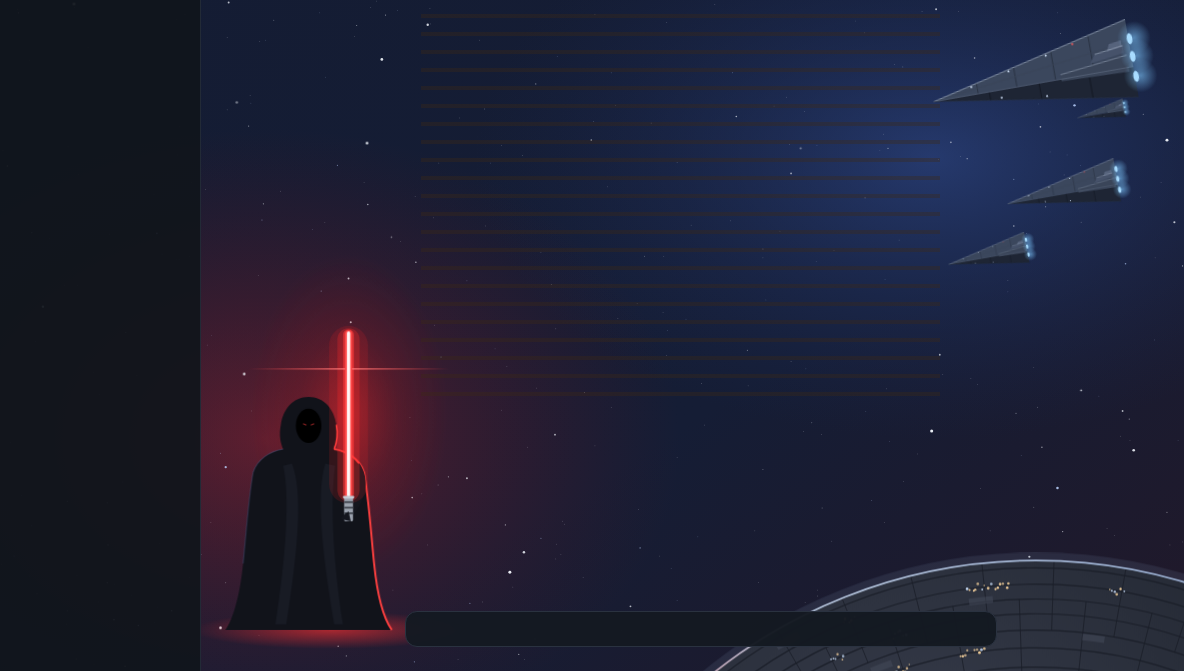
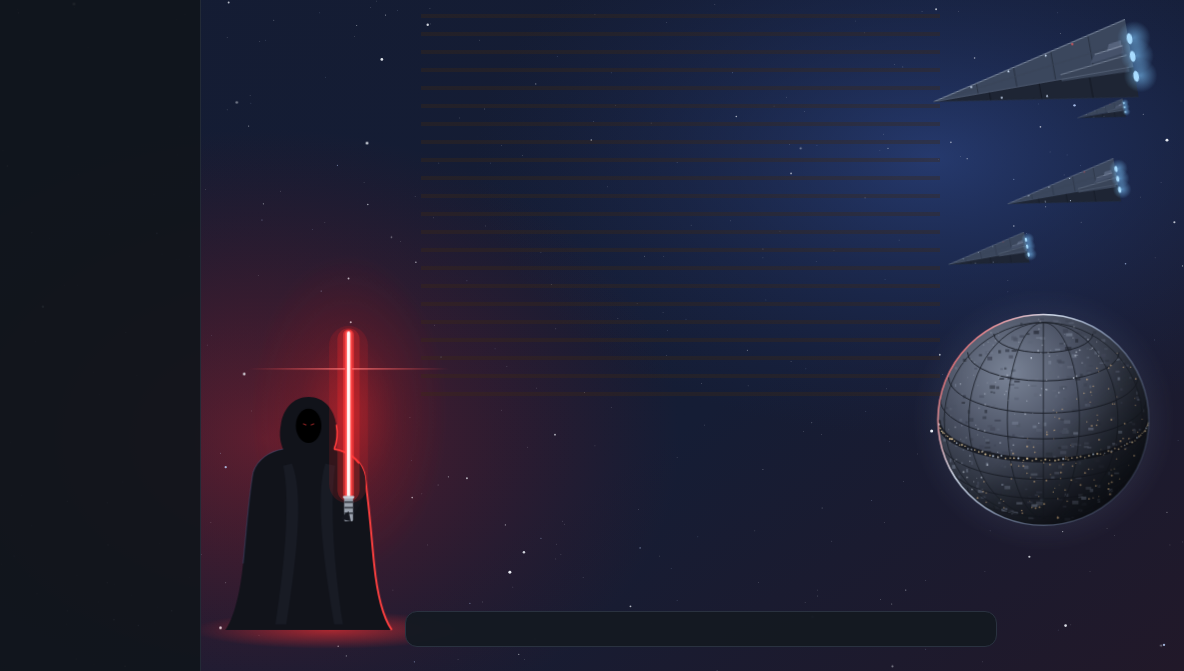
Draw Dark fleet's battle station as a whole, detailed sphere
The station now shows in full in the lower right, below the fleet: shaded as a
lit sphere, plated with curved latitude and longitude lines, covered in small
structure blocks, with a belt of windows round its equator, warmer lights on
its shadow side and a metallic rim.

diff --git a/hooks/looks/dark-fleet.ts b/hooks/looks/dark-fleet.ts
@@ -120,74 +120,120 @@ ${[-232, -222, -212].map(y => `<rect x="64" y="${y}" width="16" height="3" fill=
 
 // ---------- the battle station ----------
 
-// A moon-sized armored station, its dome rising behind the foot of the view: plated with
-// rings and seams, dotted with clusters of lit windows, a cool metallic rim and a faint red
-// reflection from the blade. Drawn from the group's origin at the bottom-right corner.
-const SC = [-200, 560] as const // centre
-const SR = 700 // radius
+// A moon-sized armored station, seen whole from slightly above, centred on (0, 0) with radius
+// 150: shaded as a sphere lit from the upper left, plated with latitude and longitude lines that
+// follow its curve, covered in small structure blocks, a bright belt of windows round its
+// equator, scattered window lights that glow warmer on the shadow side, and a metallic rim with
+// a red reflection from the blade.
+const SR = 150
+const TILT = 0.38 // sine of the viewer's height above the equator
+const LIFT = Math.sqrt(1 - TILT * TILT)
 
-function stationLights(): string {
-  let s = 23
+function stationSurface(): string {
+  let s = 29
   const rand = (): number => (s = (s * 16807) % 2147483647) / 2147483647
-  let out = ''
+  const inDisc = (): [number, number] => {
+    for (;;) {
+      const x = (rand() * 2 - 1) * SR
+      const y = (rand() * 2 - 1) * SR
 
-  // Clusters of windows along a few of the plating rings.
-  for (let c = 0; c < 44; c++) {
-    const ring = [668, 628, 582, 528, 468][Math.floor(rand() * 5)] ?? 600
-    const a0 = (-160 + rand() * 140) * (Math.PI / 180)
-
-    for (let k = 0; k < 4 + Math.floor(rand() * 7); k++) {
-      const a = a0 + (k - 3) * 0.006 + (rand() - 0.5) * 0.004
-      const r = ring + (rand() - 0.5) * 10
-      const x = SC[0] + Math.cos(a) * r
-      const y = SC[1] + Math.sin(a) * r
-      const warm = rand() < 0.75
-      const twinkle = c % 5 === 0 && k === 0 ? ' class="tw tw1"' : ''
-
-      out += `<circle${twinkle} cx="${x.toFixed(1)}" cy="${y.toFixed(1)}" r="${(1 + rand() * 0.9).toFixed(2)}" fill="${warm ? '#ffd9a0' : '#cfe3ff'}" opacity="${(0.55 + rand() * 0.4).toFixed(2)}"/>`
+      if (x * x + y * y < (SR * 0.97) ** 2) {
+        return [x, y]
+      }
     }
   }
-
-  return out
-}
-
-function plating(): string {
   let out = ''
 
-  // Rings around the pole, seen from above it.
-  for (const r of [690, 668, 648, 628, 606, 582, 556, 528, 498, 468, 436]) {
-    out += `<circle cx="${SC[0]}" cy="${SC[1]}" r="${r}" fill="none" stroke="#1b1f29" stroke-width="${r % 2 === 0 ? 1.6 : 1.1}"/>`
-  }
-  // Seams running down from the rim toward the pole, staggered between rings.
-  for (let deg = -172; deg <= -8; deg += 4) {
-    const a = (deg * Math.PI) / 180
-    const [r1, r2] = Math.round(deg / 4) % 2 === 0 ? [606, 700] : [528, 648]
+  // Structure blocks, foreshortened toward the edge.
+  const shades = ['#5d6577', '#3f4555', '#717a8d', '#2e333f', '#4c5364']
 
-    out += `<line x1="${(SC[0] + Math.cos(a) * r1).toFixed(1)}" y1="${(SC[1] + Math.sin(a) * r1).toFixed(1)}" x2="${(SC[0] + Math.cos(a) * r2).toFixed(1)}" y2="${(SC[1] + Math.sin(a) * r2).toFixed(1)}" stroke="#1b1f29" stroke-width="1.1"/>`
-  }
-  // A few lighter plates catching the light.
-  for (const [deg, r] of [[-130, 640], [-112, 594], [-98, 650], [-140, 560], [-84, 600], [-121, 680]] as const) {
-    const a = (deg * Math.PI) / 180
+  for (let i = 0; i < 280; i++) {
+    const [x, y] = inDisc()
+    const squeeze = Math.sqrt(Math.max(0.15, 1 - (x / SR) ** 2))
+    const w = (3 + rand() * 7) * squeeze
+    const h = 2 + rand() * 3.5
 
-    out += `<path d="M${(SC[0] + Math.cos(a) * r).toFixed(1)} ${(SC[1] + Math.sin(a) * r).toFixed(1)} A ${r} ${r} 0 0 1 ${(SC[0] + Math.cos(a + 0.05) * r).toFixed(1)} ${(SC[1] + Math.sin(a + 0.05) * r).toFixed(1)}" fill="none" stroke="#454b5b" stroke-width="9" opacity="0.5"/>`
+    out += `<rect x="${(x - w / 2).toFixed(1)}" y="${(y - h / 2).toFixed(1)}" width="${w.toFixed(1)}" height="${h.toFixed(1)}" fill="${shades[Math.floor(rand() * shades.length)]}" opacity="${(0.45 + rand() * 0.45).toFixed(2)}"/>`
+  }
+
+  // Latitude lines: the near half of each circle of latitude, seen from above.
+  for (const deg of [-62, -44, -26, -12, 12, 26, 44, 62]) {
+    const lat = (deg * Math.PI) / 180
+    const cy = -SR * Math.sin(lat) * LIFT
+    const rx = SR * Math.cos(lat)
+    const ry = rx * TILT
+
+    out += `<path d="M${(-rx).toFixed(1)} ${cy.toFixed(1)} A ${rx.toFixed(1)} ${ry.toFixed(1)} 0 0 0 ${rx.toFixed(1)} ${cy.toFixed(1)}" fill="none" stroke="#1c2029" stroke-width="1.4"/>`
+  }
+  // Longitude lines: half-ellipses from pole to pole.
+  for (const deg of [-70, -45, -20, 20, 45, 70]) {
+    const rx = Math.abs(SR * Math.sin((deg * Math.PI) / 180))
+    const ry = SR * LIFT
+
+    out += `<path d="M0 ${(-ry).toFixed(1)} A ${rx.toFixed(1)} ${ry.toFixed(1)} 0 0 ${deg < 0 ? 0 : 1} 0 ${ry.toFixed(1)}" fill="none" stroke="#1c2029" stroke-width="1.2"/>`
+  }
+  out += `<line x1="0" y1="${(-SR * LIFT).toFixed(1)}" x2="0" y2="${(SR * LIFT).toFixed(1)}" stroke="#1c2029" stroke-width="1.2"/>`
+
+  // The equator: a dark band with a bright belt of windows along it.
+  const ery = SR * TILT
+
+  out += `<path d="M${-SR} 0 A ${SR} ${ery.toFixed(1)} 0 0 0 ${SR} 0" fill="none" stroke="#181b23" stroke-width="7"/>`
+  for (let i = 0; i < 70; i++) {
+    const a = Math.PI * (0.03 + 0.94 * (i / 69)) + (rand() - 0.5) * 0.01
+    const x = -Math.cos(a) * SR
+    const y = Math.sin(a) * ery + (rand() - 0.5) * 3
+
+    out += `<circle cx="${x.toFixed(1)}" cy="${y.toFixed(1)}" r="${(0.9 + rand() * 0.7).toFixed(2)}" fill="${rand() < 0.8 ? '#ffe2ae' : '#d6e8ff'}" opacity="${(0.6 + rand() * 0.4).toFixed(2)}"/>`
+  }
+
+  // Scattered windows, warmer and brighter on the shadow side (lower right).
+  for (let i = 0; i < 230; i++) {
+    const [x, y] = inDisc()
+    const dark = (x + y) / (SR * 1.4) // -1 lit … 1 shadow
+    const twinkle = i % 23 === 0 ? ' class="tw tw0"' : ''
+
+    out += `<circle${twinkle} cx="${x.toFixed(1)}" cy="${y.toFixed(1)}" r="${(0.6 + rand() * 0.8).toFixed(2)}" fill="${dark > 0 ? '#ffd39a' : '#e6eefb'}" opacity="${Math.max(0.2, Math.min(0.95, 0.45 + dark * 0.45 + rand() * 0.15)).toFixed(2)}"/>`
   }
 
   return out
 }
 
-const PLANET = `
-<clipPath id="station-clip"><circle cx="${SC[0]}" cy="${SC[1]}" r="${SR}"/></clipPath>
-<circle cx="${SC[0]}" cy="${SC[1]}" r="${SR}" fill="url(#station)"/>
-<g clip-path="url(#station-clip)">${plating()}${stationLights()}</g>
-<circle cx="${SC[0]}" cy="${SC[1]}" r="${SR + 6}" fill="none" stroke="#8fa6c8" stroke-width="10" opacity="0.12"/>
-<circle cx="${SC[0]}" cy="${SC[1]}" r="${SR}" fill="none" stroke="url(#station-rim)" stroke-width="2.5"/>`
+const STATION = `
+<defs>
+  <radialGradient id="st-body" cx="34%" cy="28%" r="78%">
+    <stop offset="0" stop-color="#7a8497"/>
+    <stop offset="0.4" stop-color="#4d5466"/>
+    <stop offset="0.78" stop-color="#262b36"/>
+    <stop offset="1" stop-color="#13161d"/>
+  </radialGradient>
+  <linearGradient id="st-shade" x1="0.15" y1="0.1" x2="0.95" y2="0.95">
+    <stop offset="0.45" stop-color="#05060a" stop-opacity="0"/>
+    <stop offset="0.8" stop-color="#05060a" stop-opacity="0.5"/>
+    <stop offset="1" stop-color="#05060a" stop-opacity="0.75"/>
+  </linearGradient>
+  <linearGradient id="st-rim" x1="0" y1="0.2" x2="1" y2="0.8">
+    <stop offset="0" stop-color="#ff5a5a" stop-opacity="0.85"/>
+    <stop offset="0.3" stop-color="#d9e3f2"/>
+    <stop offset="0.6" stop-color="#9fb4d6" stop-opacity="0.5"/>
+    <stop offset="1" stop-color="#6f86ab" stop-opacity="0.15"/>
+  </linearGradient>
+  <radialGradient id="st-halo" cx="50%" cy="50%" r="50%">
+    <stop offset="0.6" stop-color="#9fb4d6" stop-opacity="0.12"/>
+    <stop offset="1" stop-color="#9fb4d6" stop-opacity="0"/>
+  </radialGradient>
+  <clipPath id="st-clip"><circle r="${SR}"/></clipPath>
+</defs>
+<circle r="${SR * 1.25}" fill="url(#st-halo)"/>
+<circle r="${SR}" fill="url(#st-body)"/>
+<g clip-path="url(#st-clip)">${stationSurface()}<circle r="${SR}" fill="url(#st-shade)"/></g>
+<circle r="${SR}" fill="none" stroke="url(#st-rim)" stroke-width="2.2"/>`
 
 // ---------- layout ----------
 //
 // The scene is cropped to the window's shape (slice). For each band of aspect ratios this
 // places, for the narrowest shape in it: the warrior in the gap between the app's sidebar
 // (about the left 17%) and the conversation's text (from about 35%), the fleet in the
-// top-right corner and the planet in the bottom-right corner. Phones have no sidebar.
+// top-right corner and the station below it on the right. Phones have no sidebar.
 
 const WARRIOR_SCALE = 0.75
 const WARRIOR_HALF = 150 * WARRIOR_SCALE
@@ -207,7 +253,8 @@ function place(a: number, tallestA: number): string {
   return [
     `.warrior { transform: translate(${f(warriorX)}px, ${f(feet)}px) scale(${(s * WARRIOR_SCALE).toFixed(3)}); }`,
     `.fleet { transform: translate(${f(right - v * 0.02)}px, ${f(top + 30)}px) scale(${s.toFixed(2)}); }`,
-    `.planet { transform: translate(${f(right)}px, ${f(bottom)}px) scale(${s.toFixed(2)}); }`,
+    // The station sits below the fleet (whose lowest escort ends near top + 30 + 345 s).
+    `.station { transform: translate(${f(right - v * 0.03 - SR * 0.95 * s)}px, ${f(Math.max(bottom - 330 * s, top + 30 + 345 * s + SR * 0.95 * s))}px) scale(${(0.95 * s).toFixed(3)}); }`,
   ].join(' ')
 }
 
@@ -250,17 +297,6 @@ const SCENE = `<svg xmlns="http://www.w3.org/2000/svg" viewBox="0 0 ${W} ${H}" p
     <stop offset="0.5" stop-color="#ff7a7a" stop-opacity="0.8"/>
     <stop offset="1" stop-color="#ff4a4a" stop-opacity="0"/>
   </linearGradient>
-  <radialGradient id="station" cx="38%" cy="22%" r="80%">
-    <stop offset="0" stop-color="#373c4b"/>
-    <stop offset="0.45" stop-color="#252a35"/>
-    <stop offset="1" stop-color="#12151d"/>
-  </radialGradient>
-  <linearGradient id="station-rim" x1="0" y1="0" x2="1" y2="0">
-    <stop offset="0" stop-color="#ff5a5a" stop-opacity="0.7"/>
-    <stop offset="0.25" stop-color="#b9c8de"/>
-    <stop offset="0.6" stop-color="#9fb4d6"/>
-    <stop offset="1" stop-color="#6f86ab" stop-opacity="0.6"/>
-  </linearGradient>
 </defs>
 <style>
 ${LAYOUT}
@@ -284,7 +320,7 @@ ${LAYOUT}
 <ellipse cx="360" cy="640" rx="560" ry="420" fill="url(#neb-red)"/>
 <ellipse cx="1260" cy="260" rx="620" ry="380" fill="url(#neb-blue)"/>
 ${stars()}
-<g class="planet">${PLANET}</g>
+<g class="station">${STATION}</g>
 <g class="fleet">${FLEET}</g>
 <g class="warrior">${WARRIOR}</g>
 </svg>`
